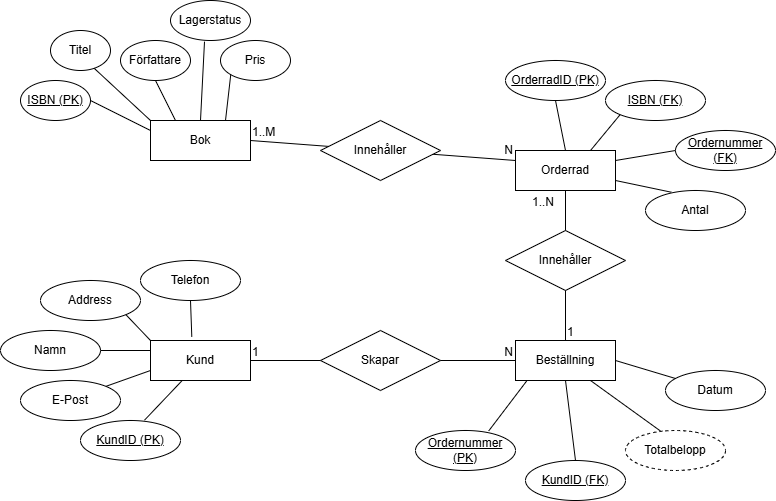
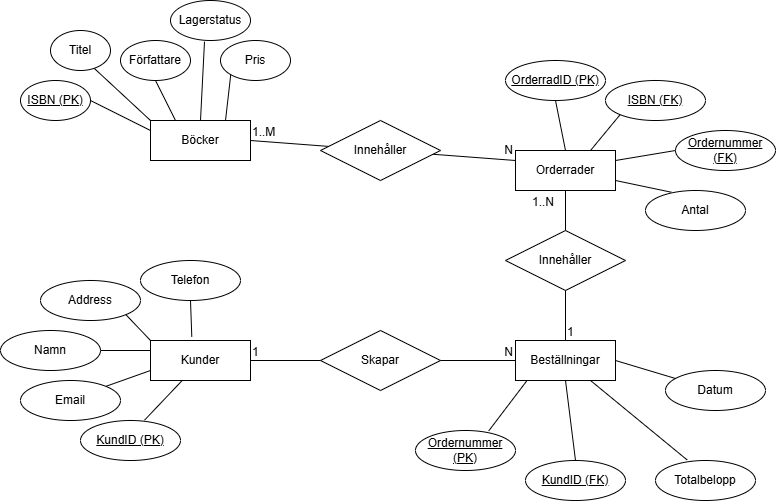
Add updated ER diagram and an sql file for creating the database

diff --git a/README.md b/README.md
@@ -1,2 +1,10 @@
-# databas_inlamning1
-Inlämning 1 till min databas kurs :)
+# Databas Inlämning 1
+Av: Aaren Bertilsson YH25
+
+Denna SQL databasen är för en liten bokhandel, den består av:
+- Böcker
+- Kunder
+- Beställningar
+- Orderrader
+
+[ER Diagram](images/er-diagram.png)
